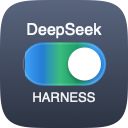
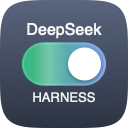
feat: v0.12.1 — 任务进行中改为多色极光流动
- 多色极光：蓝→青→绿→紫，一个颜色循环 = 4×胶囊宽（长色带缓慢流动）+ 一道很宽很淡的柔光掠过
- 四色均中明度、亮度接近（实测 luma 145–178，不发黑/不发白）
- 修复渐变绘制区间过窄 bug：相位较大时胶囊左侧露出底板灰；现区间始终完整覆盖胶囊
- 无缝验证：跨颜色回绕点相邻帧差异 18 ≈ 普通位置 19

Changed region(s): [[0.1562, 0.3125, 0.8438, 0.6875]]

diff --git a/src/Icons.swift b/src/Icons.swift
@@ -336,29 +336,43 @@ func drawBusyFlowIcon(rect: NSRect, phase: CGFloat, variant: IconVariant = .dark
     drawDockBackground(rect, size: size, variant: variant)
     let capRect = dockCapsuleRect(center: center, size: size)
 
-    // 蓝/绿各两档，但都落在中明度：不发黑、不发白，且蓝绿整体亮度接近（保留轻微明暗层次）
-    let brightBlue  = NSColor(calibratedRed: 0.20, green: 0.55, blue: 0.95, alpha: 1)
-    let deepBlue    = NSColor(calibratedRed: 0.12, green: 0.40, blue: 0.80, alpha: 1)
-    let brightGreen = NSColor(calibratedRed: 0.20, green: 0.70, blue: 0.42, alpha: 1)
-    let deepGreen   = NSColor(calibratedRed: 0.12, green: 0.56, blue: 0.34, alpha: 1)
+    // 多色极光：蓝 → 青 → 绿 → 紫（都落在中明度、亮度接近，不发黑/不发白）
+    let auroraBlue   = NSColor(calibratedRed: 0.22, green: 0.52, blue: 1.00, alpha: 1)
+    let auroraCyan   = NSColor(calibratedRed: 0.16, green: 0.72, blue: 0.78, alpha: 1)
+    let auroraGreen  = NSColor(calibratedRed: 0.20, green: 0.68, blue: 0.42, alpha: 1)
+    let auroraViolet = NSColor(calibratedRed: 0.44, green: 0.50, blue: 0.96, alpha: 1)
 
     let capPath = NSBezierPath(roundedRect: capRect, xRadius: capRect.height/2, yRadius: capRect.height/2)
     NSGraphicsContext.saveGraphicsState()
     capPath.addClip()
-    // 横向循环流动：亮蓝→深蓝→亮绿→深绿（一个完整周期），平铺整数个周期并以同色收尾，
-    // 位移按真实图案周期取模 → 首尾无缝衔接，无断层/跳变。
-    let period = capRect.height * 1.6                     // 一个颜色周期长度
-    let seq = [brightBlue, deepBlue, brightGreen, deepGreen]
-    let repeats = 3                                       // 铺 3 个周期，保证整条胶囊都在渐变范围内
+    // 长色带极光：一个颜色循环 = 4×胶囊宽（每段色带 = 一个胶囊宽，色带很长、变化舒缓）；
+    // 铺 4 个循环 + 同色收尾，绘制区间按「始终完整覆盖胶囊」对齐，位移按真实周期取模 → 无缝。
+    let cycle = capRect.width * 4
+    let seq = [auroraBlue, auroraCyan, auroraGreen, auroraViolet]
     var colors: [NSColor] = []
-    for _ in 0..<repeats { colors.append(contentsOf: seq) }
-    colors.append(brightBlue)                             // 收尾同色，首尾相接
-    let span = period * CGFloat(repeats)
-    let shift = (phase * capRect.height * 0.5).truncatingRemainder(dividingBy: period)
+    for _ in 0..<4 { colors.append(contentsOf: seq) }
+    colors.append(auroraBlue)                    // 收尾同色，首尾相接（每段 = 胶囊宽）
+    let span = cycle * 4
+    let shift = (phase * capRect.width * 0.95).truncatingRemainder(dividingBy: cycle)
     let grad = NSGradient(colors: colors)!
-    grad.draw(from: NSPoint(x: capRect.midX - span / 2 + shift, y: 0),
-              to: NSPoint(x: capRect.midX + span / 2 + shift, y: 0),
+    // 区间左端始终比胶囊左边缘靠左 (span - 胶囊宽)，保证任何相位下胶囊都被完整覆盖
+    let fromX = capRect.minX - (span - capRect.width) + shift
+    grad.draw(from: NSPoint(x: fromX, y: 0),
+              to: NSPoint(x: fromX + span, y: 0),
               options: [])
+
+    // 柔和极光扫过：一道很宽很淡的白光缓慢掠过（非细亮线）
+    let sweepW = capRect.width * 0.42
+    let sweepPeriod = capRect.width + sweepW
+    let sweepShift = (phase * capRect.width * 0.45).truncatingRemainder(dividingBy: sweepPeriod)
+    let sweepRect = NSRect(x: capRect.minX - sweepW + sweepShift, y: capRect.minY,
+                           width: sweepW, height: capRect.height)
+    let sweepGrad = NSGradient(colors: [
+        NSColor(calibratedWhite: 1, alpha: 0.0),
+        NSColor(calibratedWhite: 1, alpha: 0.26),
+        NSColor(calibratedWhite: 1, alpha: 0.0),
+    ])!
+    sweepGrad.draw(in: sweepRect, angle: 0)
     NSGraphicsContext.restoreGraphicsState()
 
     // 胶囊内描边（受光轮廓）

diff --git a/src/main.swift b/src/main.swift
@@ -336,7 +336,7 @@ final class AppDelegate: NSObject, NSApplicationDelegate {
         let t = Date().timeIntervalSinceReferenceDate
         if displayState == .busy {
             guard let v = ensureBusyView() else { return }
-            v.phase = CGFloat(t) * 2.0          // 连续时间驱动，平滑无卡顿
+            v.phase = CGFloat(t)               // 秒；drawBusyFlowIcon 内部按秒换算速度
             v.needsDisplay = true
             NSApp.dockTile.display()
         } else if displayState == .reminding {

diff --git a/CHANGELOG.md b/CHANGELOG.md
@@ -172,3 +172,7 @@
 - 提醒态发光重做（经演示确认）：
   - **边缘向内的呼吸发光**：光从图标 squircle 边缘向中心衰减（替代原「胶囊向外的霓虹光晕」），扩散范围随呼吸伸缩；
   - **边缘内侧 2px 白色流光**：一条 2px 细亮线沿边缘环绕流动（约 75° 亮弧、两端渐隐），与呼吸同步在最强时最亮（实测亮弧随相位平滑环绕 298°→216°→120°→26°）。
+
+### 0.12.1（patch）
+- 任务进行中动画改为**多色极光流动**（选型 F）：蓝→青→绿→紫长色带缓慢流动（一个颜色循环 = 4×胶囊宽，每段色带约等于一个胶囊宽，比原先长得多）+ 一道很宽很淡的柔光缓慢掠过；四个色都落在中明度、亮度接近（实测 luma 145–178，不发黑/不发白）。
+- 修复渐变绘制区间过窄的 bug：相位较大时胶囊左侧会露出底板（灰），现绘制区间始终完整覆盖胶囊；跨「颜色回绕点」的相邻帧差异 18 ≈ 普通位置 19，确认无缝无断层。
